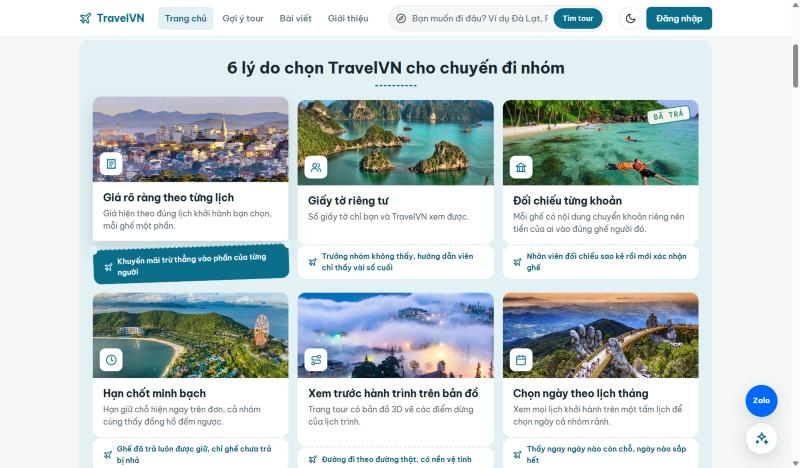
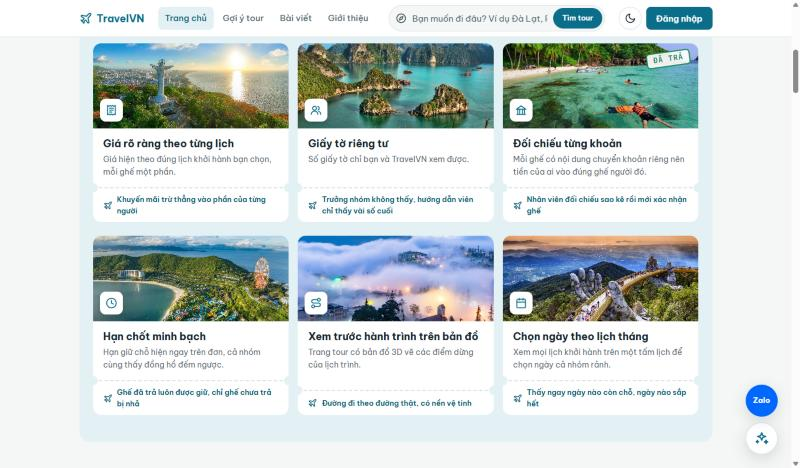
Trang chủ: ảnh xếp quạt trồi lên và nghiêng theo chuột, đổi ảnh thẻ lý do đầu tiên
- Rê chuột vào ảnh tour xếp quạt (kể cả ảnh phía sau) thì ảnh trồi lên trên, nghiêng theo con trỏ,
  có vệt sáng chạy theo; tắt trên điện thoại và khi người dùng chọn giảm chuyển động
- Thẻ "Giá rõ ràng theo từng lịch" dùng ảnh Vũng Tàu thay ảnh Đà Lạt

diff --git a/webdulich/wwwroot/css/trang-chu.css b/webdulich/wwwroot/css/trang-chu.css
@@ -242,9 +242,14 @@
 .tc-dau-phai { display: grid; gap: var(--tv-k4); min-width: 0; }
 
 /* Tour xếp quạt: thẻ giữa thẳng, hai thẻ bên nghiêng ra sau (data-vt do script cuối trang gán) */
-.tc-xap-khung { position: relative; height: 340px; }
+.tc-xap-khung { position: relative; height: 340px; perspective: 1100px; }
 
+/* --noi, --to: trồi lên và phóng nhẹ khi rê chuột; --rx, --ry: nghiêng theo con trỏ (script cuối Views/TrangChu/Index.cshtml) */
 .tc-xap-the {
+    --noi: 0px;
+    --to: 1;
+    --rx: 0deg;
+    --ry: 0deg;
     position: absolute;
     top: 0;
     left: 50%;
@@ -260,19 +265,51 @@
     text-decoration: none;
     opacity: 0;
     transform: translateX(-50%) scale(0.8);
-    transition: transform 500ms ease, opacity 500ms ease;
+    transition: transform 500ms ease, opacity 500ms ease, box-shadow 300ms ease;
 }
 
 .tc-xap-the:first-child,
-.tc-xap-the[data-vt="0"] { z-index: 3; opacity: 1; transform: translateX(-50%); }
-.tc-xap-the[data-vt="-1"] { z-index: 2; opacity: 0.92; transform: translateX(-98%) rotate(-7deg) scale(0.84); }
-.tc-xap-the[data-vt="1"] { z-index: 2; opacity: 0.92; transform: translateX(-2%) rotate(7deg) scale(0.84); }
+.tc-xap-the[data-vt="0"] {
+    z-index: 3;
+    opacity: 1;
+    transform: translateX(-50%) translateY(var(--noi)) rotateX(var(--rx)) rotateY(var(--ry)) scale(var(--to));
+}
+.tc-xap-the[data-vt="-1"] {
+    z-index: 2;
+    opacity: 0.92;
+    transform: translateX(-98%) translateY(var(--noi)) rotate(-7deg) rotateX(var(--rx)) rotateY(var(--ry)) scale(calc(0.84 * var(--to)));
+}
+.tc-xap-the[data-vt="1"] {
+    z-index: 2;
+    opacity: 0.92;
+    transform: translateX(-2%) translateY(var(--noi)) rotate(7deg) rotateX(var(--rx)) rotateY(var(--ry)) scale(calc(0.84 * var(--to)));
+}
 .tc-xap-the[data-vt="an"] { z-index: 1; opacity: 0; transform: translateX(-50%) scale(0.8); pointer-events: none; }
 .tc-xap-the:hover { color: #FFFFFF; }
+
+/* Ảnh đang được rê chuột: ảnh phía sau cũng trồi lên trên ảnh giữa */
+.tc-xap-the.dang-tro { --noi: -20px; --to: 1.06; z-index: 4; opacity: 1; box-shadow: 0 28px 50px rgba(0, 0, 0, 0.4); }
+.tc-xap-the[data-vt="0"].dang-tro { --noi: -10px; --to: 1.03; }
+/* Đang nghiêng theo chuột thì phản hồi nhanh, không trễ nửa giây */
+.tc-xap-the.dang-nghieng { transition: transform 120ms ease-out, opacity 500ms ease, box-shadow 300ms ease; }
+
+/* Vệt sáng chạy theo con trỏ */
+.tc-xap-the::after {
+    content: "";
+    position: absolute;
+    inset: 0;
+    z-index: 2;
+    background: radial-gradient(circle at var(--mx, 50%) var(--my, 50%), rgba(255, 255, 255, 0.35), transparent 55%);
+    opacity: 0;
+    pointer-events: none;
+    transition: opacity 200ms ease;
+}
+.tc-xap-the.dang-tro::after { opacity: 1; }
 
 .tc-xap-the img { width: 100%; height: 100%; object-fit: cover; }
 
 .tc-xap-the span {
+    z-index: 1;
     position: absolute;
     inset: auto 0 0 0;
     padding: 40px 14px 14px;
